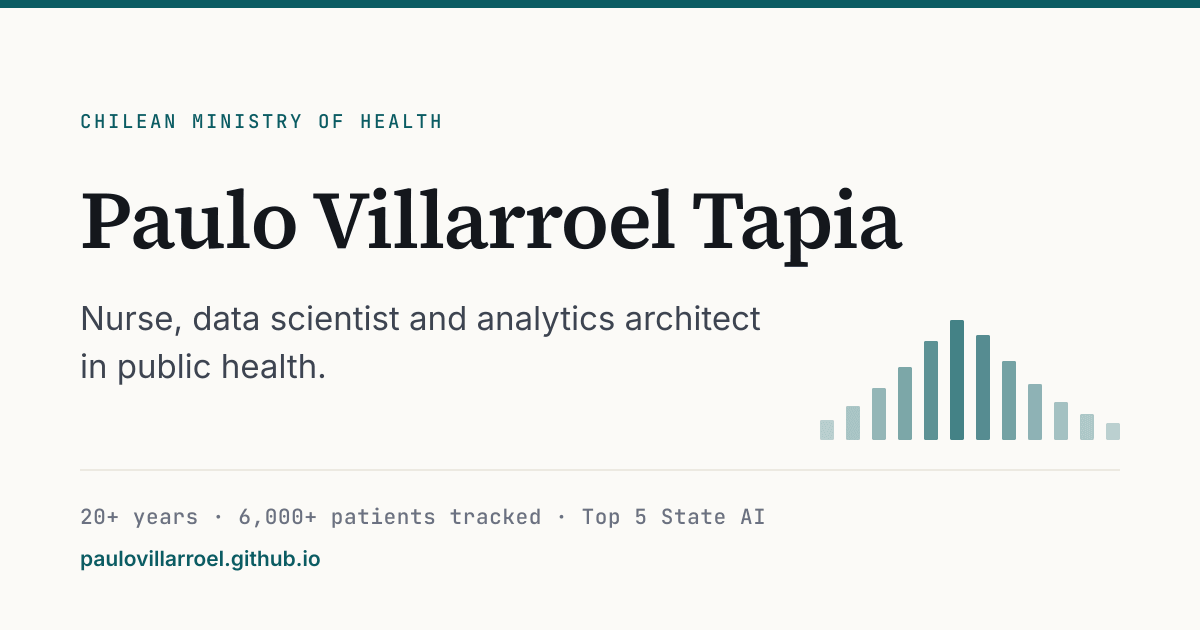
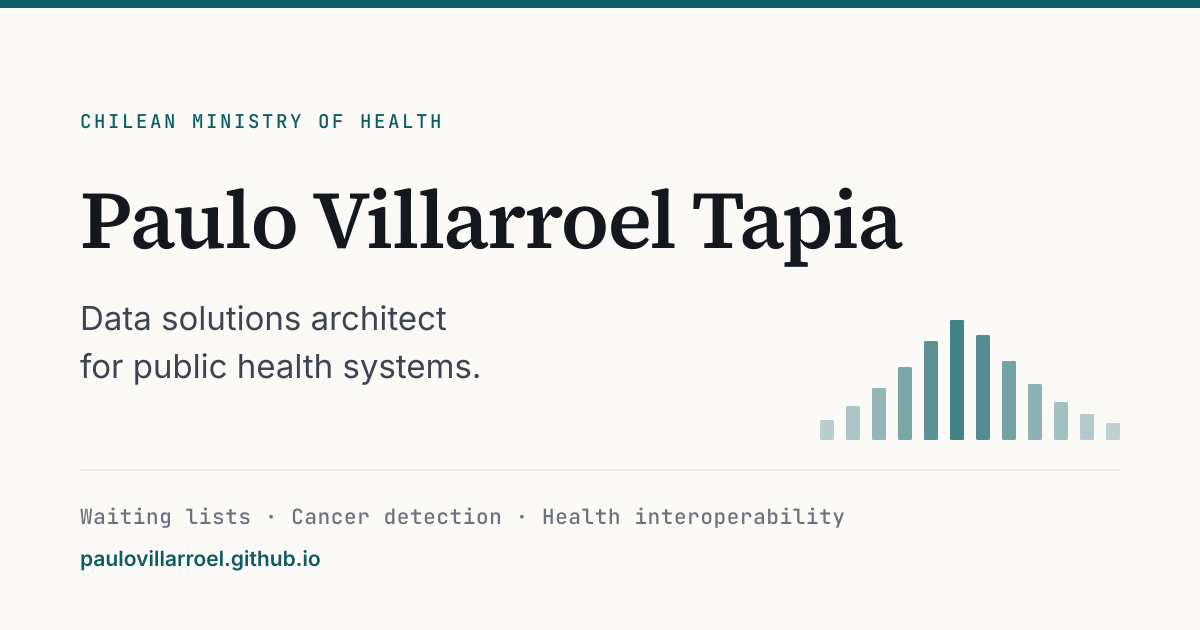
Reemplaza la banda de cifras de portada por los sistemas en producción
Una fila de cuatro números grandes es un patrón de landing comercial, y los
números eran heterogéneos: dos venían del proyecto oncológico de 2014-2018,
uno del modelo de 2025 y otro era antigüedad. Cada uno necesitaba una nota al
pie para significar algo, que es la señal de que decoraban en vez de informar.

En su lugar, un bloque «En producción» con lo que efectivamente corre hoy:
qué hace cada sistema, en qué institución y con qué cadencia. Responde la
pregunta que un par técnico se hace de verdad —qué opera esta persona— sin
pedirle que interprete una cifra fuera de contexto.

Las métricas del modelo oncológico siguen donde pesan: en la tabla de
evaluación de /proyectos/, junto a la implicancia asistencial de cada
parámetro.

Las tarjetas sociales se regeneraron por lo mismo: la línea de datos pasó a
describir los dominios de trabajo, y el rol quedó sincronizado con el titular
del sitio, que aún decía «científico de datos» en vez de «arquitecto».

Elimina StatRow.astro, ya sin uso.

Claude-Session: https://claude.ai/code/session_01LoHQeQxPVHwXTkjGsfdCFe

Changed region(s): [[0.0617, 0.4825, 0.6475, 0.6032], [0.0617, 0.7841, 0.7092, 0.8444]]

diff --git a/src/data/profile.ts b/src/data/profile.ts
@@ -1,47 +1,54 @@
 import type { I18n } from '@/i18n/config';
 
-export type Stat = {
-  value: I18n<string>;
-  label: I18n<string>;
-  note: I18n<string>;
+export type ProductionSystem = {
+  name: I18n<string>;
+  what: I18n<string>;
+  cadence: I18n<string>;
+  org: I18n<string>;
 };
 
 /**
- * Headline figures. Every number here is sourced from the documented career
- * record; ranges that were never published are described qualitatively instead.
+ * What is running right now. This replaced a row of headline figures: the
+ * numbers came from different projects and years, so each needed a footnote to
+ * mean anything, which is the sign that they were decorating rather than
+ * informing.
  */
-export const HERO_STATS: Stat[] = [
+export const PRODUCTION_SYSTEMS: ProductionSystem[] = [
   {
-    value: { es: '20+', en: '20+' },
-    label: { es: 'años en salud pública', en: 'years in public health' },
-    note: {
-      es: 'Desde turnos de urgencia y ambulancias hasta la arquitectura analítica ministerial.',
-      en: 'From emergency shifts and ambulances to ministry-scale analytics architecture.',
+    name: {
+      es: 'Detección de sospecha oncológica en listas quirúrgicas',
+      en: 'Cancer suspicion detection in surgical waiting lists',
     },
+    what: {
+      es: 'Clasifica las derivaciones en texto libre y deriva los casos sospechosos e indeterminados a auditoría clínica médica.',
+      en: 'Classifies free-text referrals and routes suspicious and indeterminate cases to medical clinical audit.',
+    },
+    cadence: { es: 'Semanal, desde 2025', en: 'Weekly, since 2025' },
+    org: { es: 'MINSAL', en: 'Ministry of Health' },
   },
   {
-    value: { es: '6.000+', en: '6,000+' },
-    label: { es: 'pacientes trazados', en: 'patients tracked' },
-    note: {
-      es: 'Cohorte oncológica bajo seguimiento activo en el Hospital Padre Hurtado (2014–2018).',
-      en: 'Cancer cohort under active follow-up at Hospital Padre Hurtado (2014–2018).',
+    name: {
+      es: 'Detección de anomalías en el Registro Nacional de Listas de Espera',
+      en: 'Anomaly detection in the National Waiting List Registry',
     },
+    what: {
+      es: 'Vigila volumen, permanencia, variabilidad entre servicios y justificaciones de egreso, y notifica a los equipos de gestión local.',
+      en: 'Monitors volume, time on list, variance between services and discharge justifications, then notifies local management teams.',
+    },
+    cadence: { es: 'Mensual, desde 2023', en: 'Monthly, since 2023' },
+    org: { es: 'MINSAL', en: 'Ministry of Health' },
   },
   {
-    value: { es: '13 días', en: '13 days' },
-    label: { es: 'a primera consulta', en: 'to first specialist visit' },
-    note: {
-      es: 'Tiempo de acceso alcanzado por el modelo de trazabilidad oncológica.',
-      en: 'Access time reached by the oncology traceability model.',
+    name: {
+      es: 'Deduplicación probabilística de identidades',
+      en: 'Probabilistic identity deduplication',
     },
-  },
-  {
-    value: { es: '91,6 %', en: '91.6 %' },
-    label: { es: 'de sensibilidad', en: 'sensitivity' },
-    note: {
-      es: 'Modelo de detección de cáncer oculto en listas quirúrgicas, validado sobre 15.032 casos revisados por especialistas.',
-      en: 'Model detecting hidden cancer in surgical waiting lists, validated on 15,032 specialist-reviewed cases.',
+    what: {
+      es: 'Unifica los eventos asistenciales de personas registradas bajo identificadores transitorios, corrigiendo el sobredimensionamiento de la demanda.',
+      en: 'Merges care events for people registered under temporary identifiers, correcting overstated demand.',
     },
+    cadence: { es: 'En operación', en: 'In operation' },
+    org: { es: 'MINSAL', en: 'Ministry of Health' },
   },
 ];
 

diff --git a/src/lib/llms.ts b/src/lib/llms.ts
@@ -1,6 +1,6 @@
 import { ROUTES, type Locale } from '@/i18n/config';
 import { PERSON, SITE, SOCIALS, AFFILIATIONS } from '@/data/site';
-import { CAREER_NARRATIVE, CONCLUSIONS, HERO_STATS, PILLARS } from '@/data/profile';
+import { CAREER_NARRATIVE, CONCLUSIONS, PILLARS, PRODUCTION_SYSTEMS } from '@/data/profile';
 import { PROJECTS, STRATEGIC_PROGRAMME } from '@/data/projects';
 import { EDUCATION, RECOGNITION, TIMELINE } from '@/data/career';
 import { APPEARANCES, CURRICULUM, VENTURES } from '@/data/teaching';
@@ -14,8 +14,8 @@ const abs = (site: URL | undefined, path: string) => new URL(path, site ?? new U
  */
 const PAGE_NOTES: Record<keyof typeof ROUTES, Record<Locale, string>> = {
   home: {
-    es: 'Resumen del perfil, cifras principales, las cuatro áreas de trabajo y el programa ministerial vigente.',
-    en: 'Profile summary, headline figures, the four areas of work and the current ministry programme.',
+    es: 'Resumen del perfil, los sistemas actualmente en producción, las cuatro áreas de trabajo y el programa ministerial vigente.',
+    en: 'Profile summary, the systems currently in production, the four areas of work and the current ministry programme.',
   },
   career: {
     es: 'Narrativa de carrera 2004–2026, cronología de hitos verificables, formación académica y reconocimientos.',
@@ -43,7 +43,7 @@ const HEADINGS = {
   pages: { es: 'Páginas', en: 'Pages' },
   pagesEn: { es: 'Páginas en inglés', en: 'Pages in Spanish' },
   profile: { es: 'Perfil', en: 'Profile' },
-  figures: { es: 'Cifras principales', en: 'Headline figures' },
+  running: { es: 'Sistemas en producción', en: 'Systems in production' },
   areas: { es: 'Áreas de trabajo', en: 'Areas of work' },
   projects: { es: 'Proyectos', en: 'Projects' },
   programme: { es: 'Programa estratégico 2026', en: 'Strategic programme 2026' },
@@ -139,9 +139,9 @@ export function buildLlmsFull(lang: Locale, site: URL | undefined): string {
   out.push(`${lang === 'es' ? 'URL canónica' : 'Canonical URL'}: ${abs(site, ROUTES.home[lang])}`);
   out.push(`${lang === 'es' ? 'Última actualización' : 'Last updated'}: ${SITE.updated}`, '');
 
-  out.push(`## ${h('figures')}`, '');
-  for (const stat of HERO_STATS) {
-    out.push(`- ${stat.value[lang]} — ${stat.label[lang]}. ${stat.note[lang]}`);
+  out.push(`## ${h('running')}`, '');
+  for (const system of PRODUCTION_SYSTEMS) {
+    out.push(`- ${system.name[lang]} — ${system.org[lang]}, ${system.cadence[lang]}. ${system.what[lang]}`);
   }
   out.push('');
 

diff --git a/README.md b/README.md
@@ -19,7 +19,7 @@ npm run preview   # sirve dist/ localmente
 src/
   data/          Contenido. Cada campo es bilingüe: { es, en }
     site.ts        Identidad, redes, afiliaciones
-    profile.ts     Cifras, áreas de trabajo, narrativa, conclusiones
+    profile.ts     Sistemas en producción, áreas de trabajo, narrativa, conclusiones
     projects.ts    Proyectos técnicos + programa ministerial 2026
     career.ts      Cronología, formación, reconocimientos
     teaching.ts    Iniciativas, temario, ponencias
